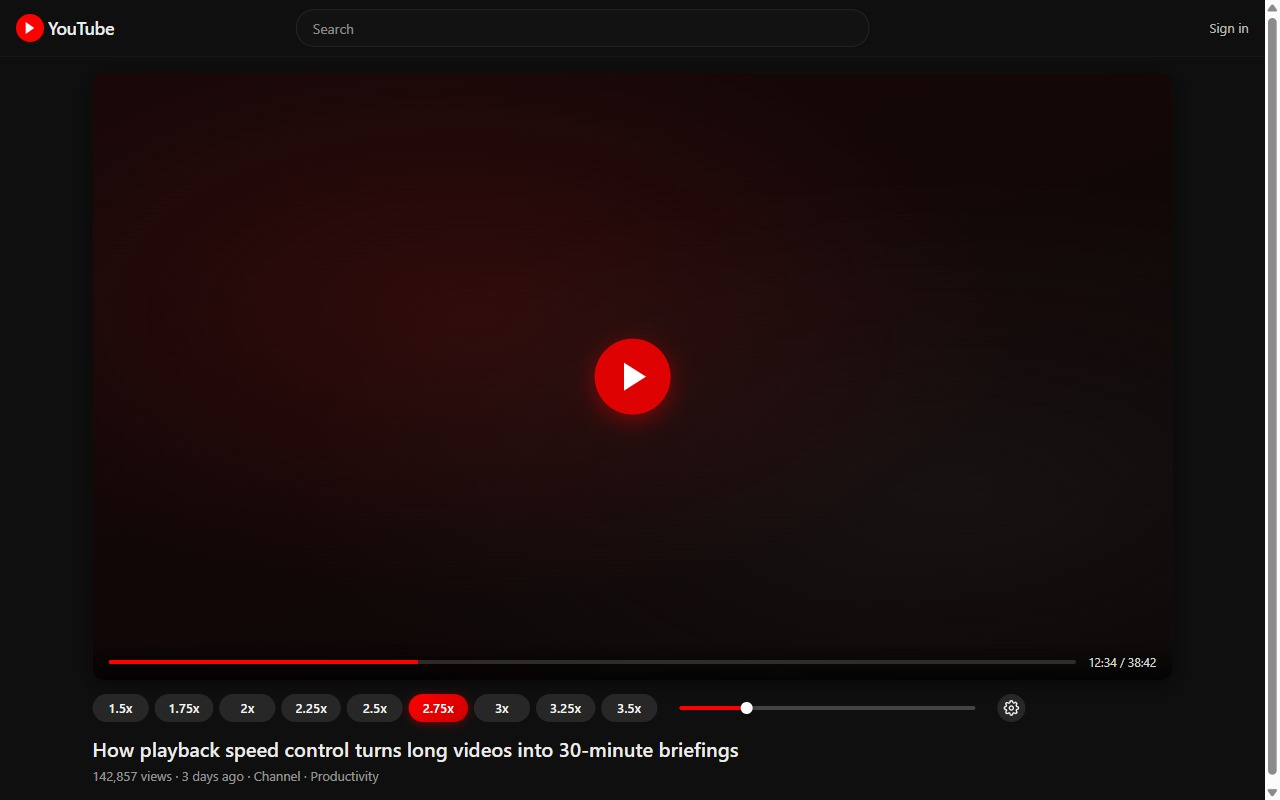
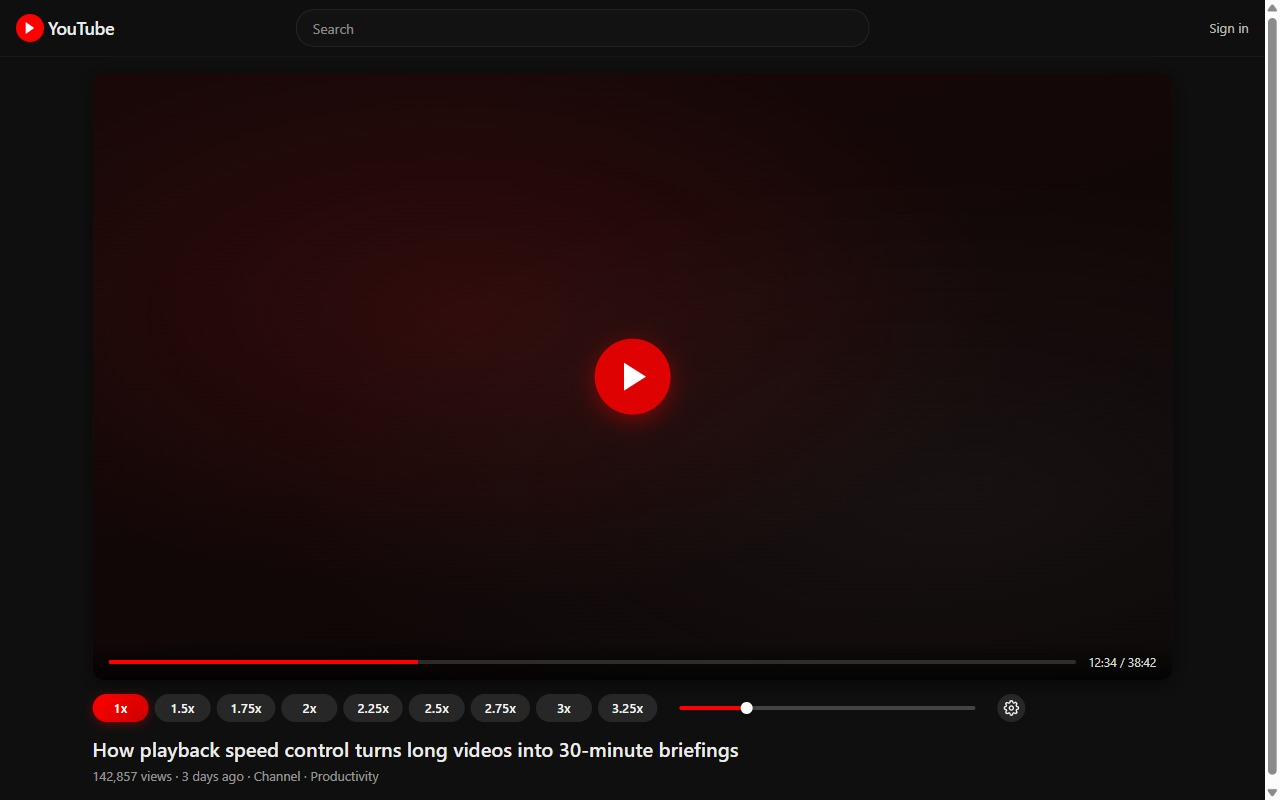
chore(store): refresh listing screenshots + drop version, refresh YT defaults
Two mock-page issues surfaced during the v0.3.5 screenshot regen:

1. Both YouTube and RuTube mocks hardcoded `v0.2.0` in the settings
   header. The actual extension stopped rendering the version there
   in v0.3.5 (so the listing assets don't go stale on every release).
2. The YouTube mock pre-shipped the pre-v0.3.4 preset row
   ([1.5..3.5] with 2.75× active) — now updated to the v0.3.4 row
   that includes 1× as the first/active preset.

Re-rendered all 5 listing JPEGs so dist-store-assets/screenshots/
matches the v0.3.5 UI. Listing assets are now stable across version
bumps.

diff --git a/tests/store-screenshots/mock-youtube.html b/tests/store-screenshots/mock-youtube.html
@@ -431,15 +431,15 @@
   <!-- Speed panel -->
   <div class="vs-panel" data-vs-site="youtube" id="vs-panel">
     <div class="speed-buttons-row">
+      <button class="speed-button active">1x</button>
       <button class="speed-button">1.5x</button>
       <button class="speed-button">1.75x</button>
       <button class="speed-button">2x</button>
       <button class="speed-button">2.25x</button>
       <button class="speed-button">2.5x</button>
-      <button class="speed-button active">2.75x</button>
+      <button class="speed-button">2.75x</button>
       <button class="speed-button">3x</button>
       <button class="speed-button">3.25x</button>
-      <button class="speed-button">3.5x</button>
     </div>
     <div class="speed-slider-container">
       <input type="range" min="0.75" max="10" step="0.05" value="2.75"
@@ -467,7 +467,6 @@
       <span class="vs-menu-title-dot"></span>
       Playback Speed
     </div>
-    <span class="vs-menu-version">v0.2.0</span>
   </div>
   <div class="vs-tabs">
     <button class="vs-tab active">General</button>

diff --git a/tests/store-screenshots/mock-rutube.html b/tests/store-screenshots/mock-rutube.html
@@ -436,7 +436,6 @@
       <span class="vs-menu-title-dot"></span>
       Скорость воспроизведения
     </div>
-    <span class="vs-menu-version">v0.2.0</span>
   </div>
   <div class="vs-tabs">
     <button class="vs-tab active">Общие</button>
